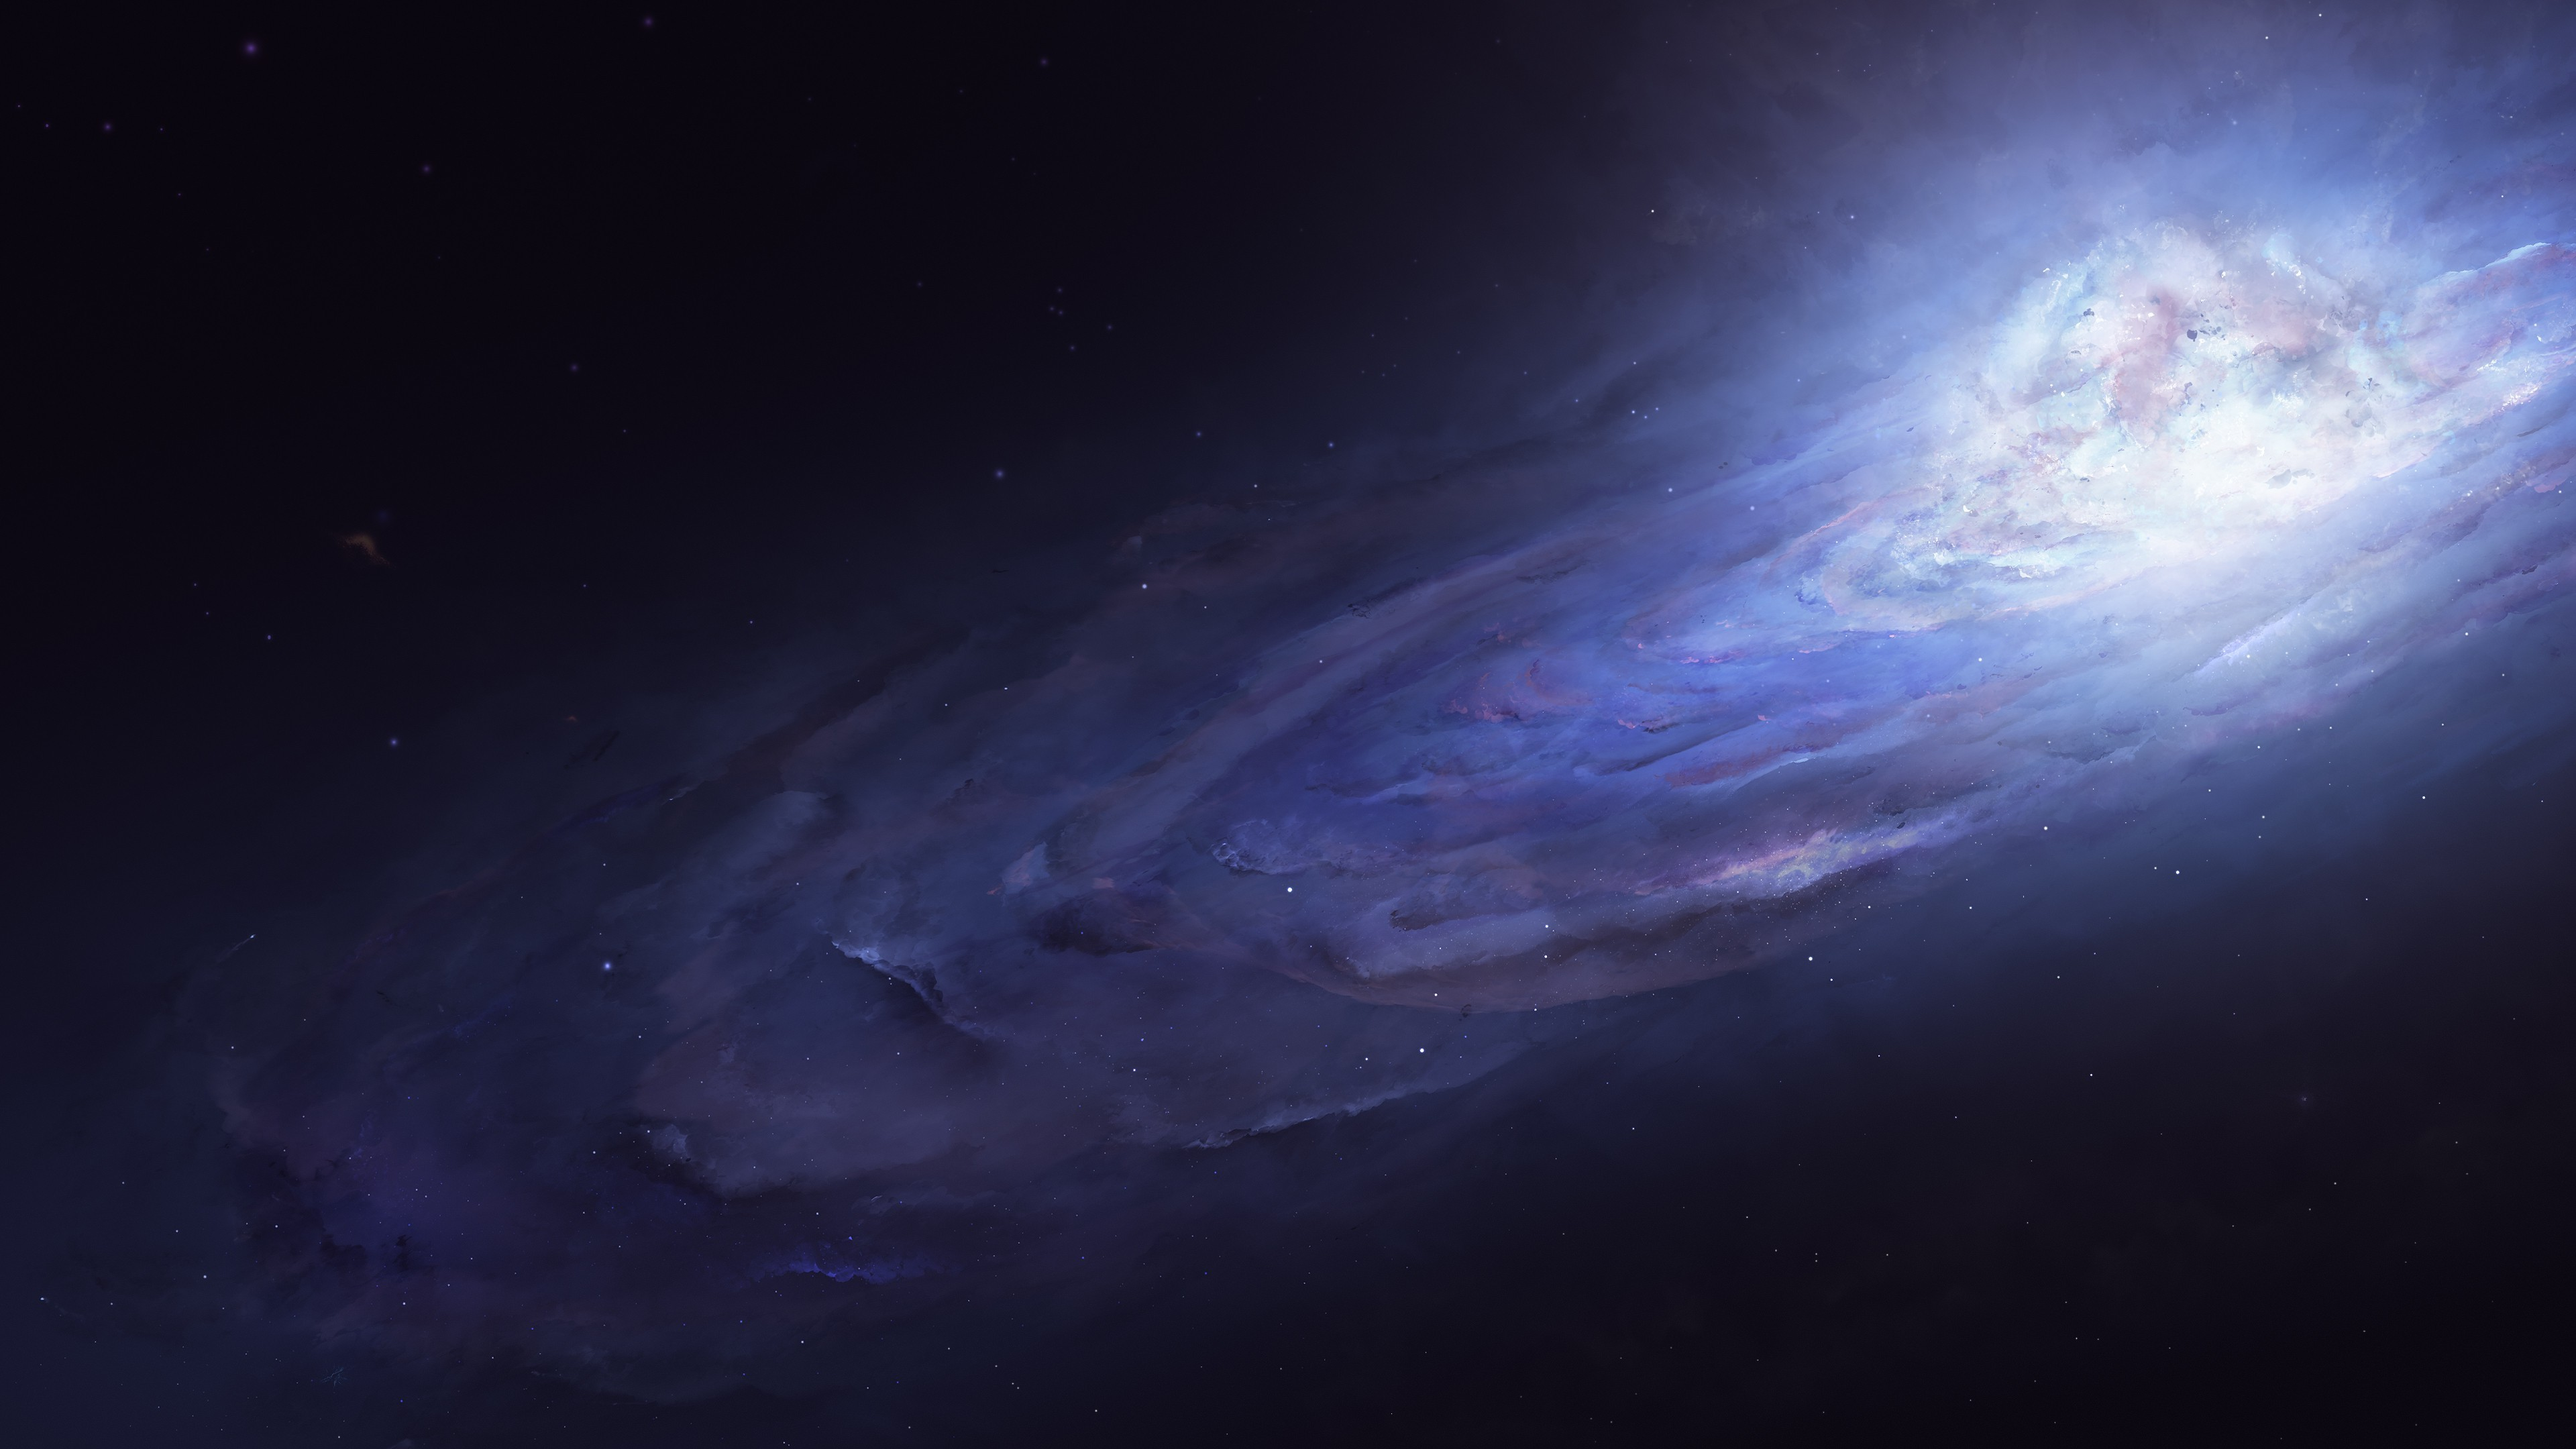
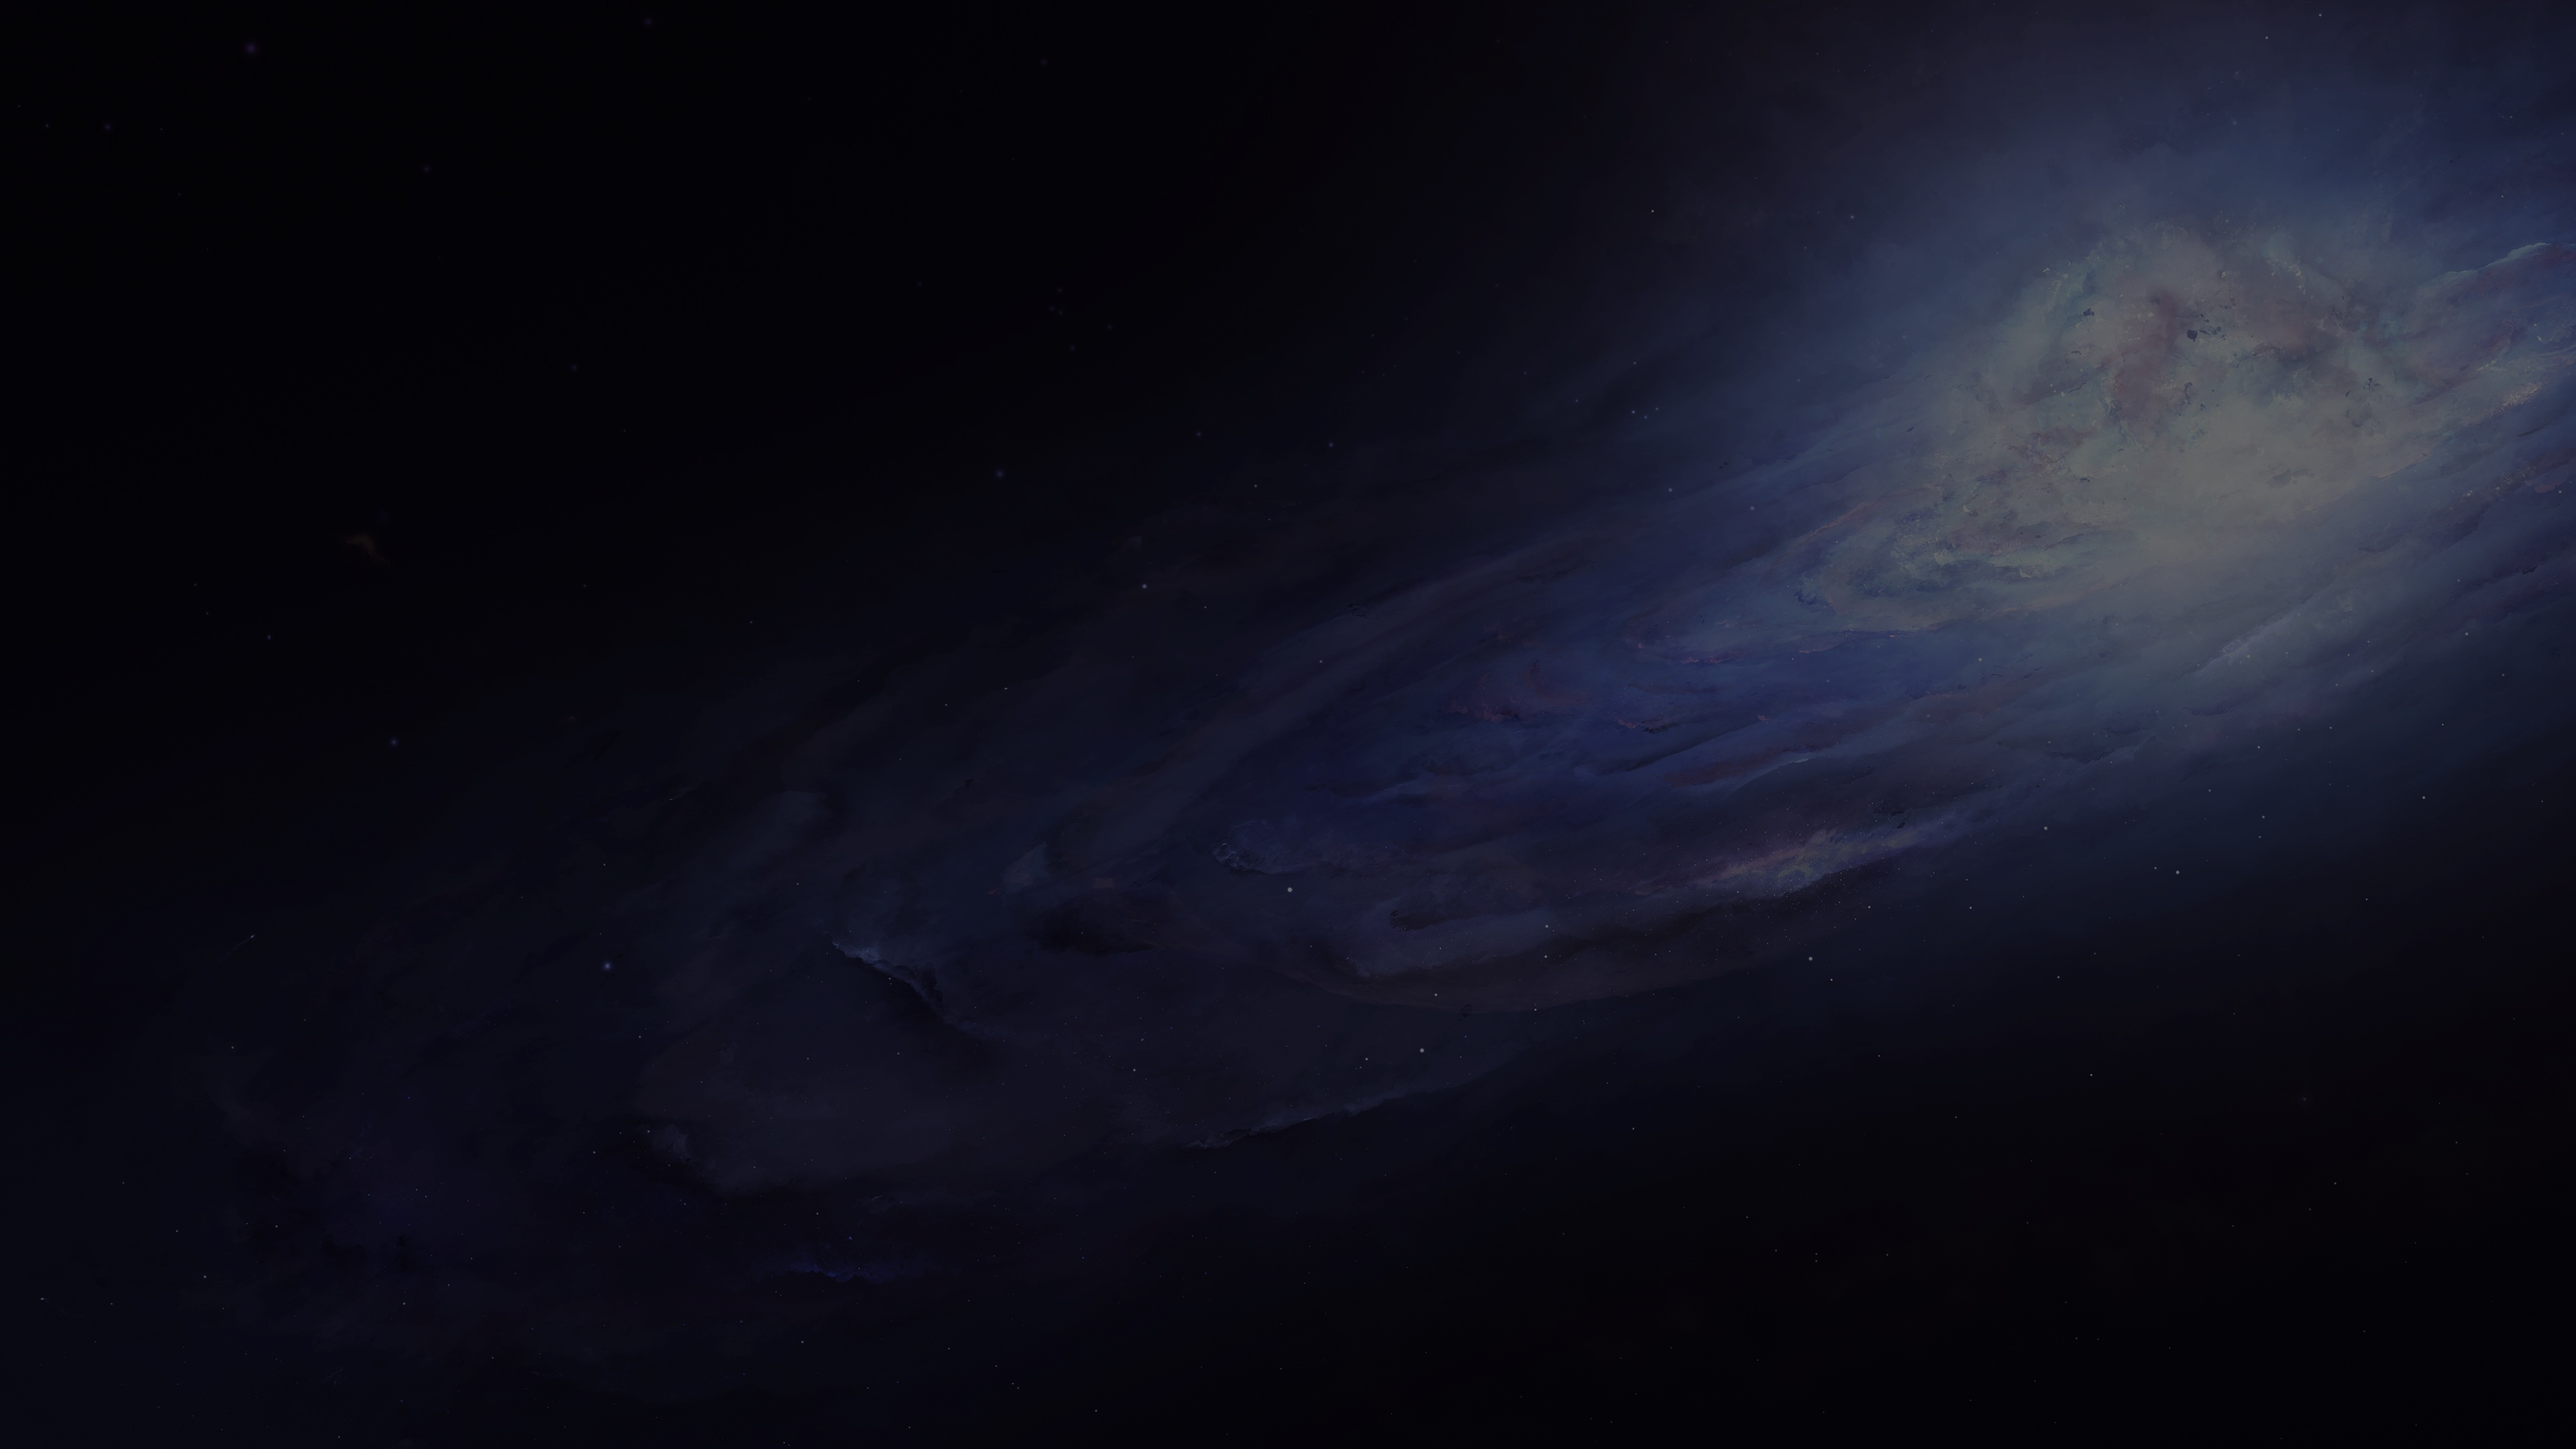
Added contact list and corresponding links. Cleaned up some spacing and other issues

diff --git a/index.html b/index.html
@@ -11,7 +11,7 @@
 
 
 <body>
-    <div id="background">
+    <div id="background"></div>
         <header>
             <h1>
                 Ryan Lee
@@ -67,7 +67,7 @@
                             I hope to be able to merge both experiences together and be able to make something out of it.
                         </span>
                     </div> <!-- close section heading -->
-                    <div class="image-post">
+                    <div class="left-image-post">
                         <div class="row">
                             <div class="col-md-6">
                                 <div class="left-image">
@@ -85,24 +85,23 @@
                         </div><!-- close row -->
                     </div><!-- close image-post -->
 
-                    <div class="image-post">
+                    <div class="right-image-post">
                         <div class="row">
                             <div class="col-md-6">
-                                <div class="left-image">
-                                    <img src="./assets/images/headshot.jpg" alt="My face"/>
-                                </div><!-- close left-image  -->
-                            </div><!-- close close col-md-6 -->
-                            <div class="col-md-6">
-                                <div class="right-text">
-                                    <h4> Where I'm From </h4>
+                                <div class="left-text">
+                                    <h4> Interests </h4>
                                     <p>
-                                        I was born in Los Angeles, however, due to school and various other circumstances, moved to San Diego and am currently living in San Diego.
+                                        Lorem ipsum dolor sit amet, consectetur adipiscing elit, sed do eiusmod tempor incididunt ut labore et dolore magna aliqua. Tincidunt nunc pulvinar sapien et ligula ullamcorper malesuada proin. Mauris rhoncus aenean vel elit scelerisque mauris pellentesque.
                                     </p>
                                 </div><!-- close right text -->
                             </div><!-- close col-md-6 -->
+                            <div class="col-md-6">
+                                <div class="right-image">
+                                    <img src="./assets/images/5 - TAVhU6f.jpg">
+                                </div><!-- close left-image  -->
+                            </div><!-- close close col-md-6 -->
                         </div><!-- close row -->
                     </div><!-- close image-post -->
-
                 </div><!-- close container -->
             </section>
 
@@ -164,9 +163,39 @@
                             Come find more about me elsewhere!
                         </span>
                     </div><!-- close section-heading -->
+                    <div class="row2">
+                        <div class="col-md-6">
+                            <div class="contactlist">
+                                <h4> Phone Number </h4>
+                                <p>
+                                    213 - 392 - 2227
+                                </p>
+                            </div>
+                        </div> <!-- close col-md-6 -->
+                        <a href="mailto:ryanlee059@gmail.com">
+                            <div class="col-md-6">
+                                <div class="contactlist">
+                                    <h4> Email </h4>
+                                </div>
+                            </div> <!-- close col-md-6 -->
+                        </a>
+                        <a href="https://github.com/Damaximum">
+                            <div class="col-md-6">
+                                <div class="contactlist">
+                                    <h4> GitHub </h4>
+                                </div>
+                            </div> <!-- close col-md-6 -->
+                        </a>
+                        <a href="https://www.linkedin.com/in/ryan-lee-1a8715207/">
+                            <div class="col-md-6">
+                                <div class="contactlist">
+                                    <h4> LinkedIn </h4>
+                                </div>
+                            </div> <!-- close col-md-6 -->
+                        </a>
+                    </div> <!-- close row -->
                 </div><!-- close container -->
             </section><!-- close contact -->
-            </div>
         </main>
 
         <footer>

diff --git a/assets/css/style.css b/assets/css/style.css
@@ -2,29 +2,6 @@
 
 }
 
-/* 
-body, html {
-    height: 100%;
-}
-
-.background {
-    height: 800px;
-    width: 100%;
-    margin-bottom: 25px;
-    background-image: url("../images/wallpaper-space.jpg");
-    background-size: cover;
-    background-position: center;
-    background-repeat: no-repeat;
-    height: 50%;
-
-}
-
-ul {
-    list-style-type: none;
-    margin: 0;
-    padding: 0;
-  }
-
   /* Nav bar settings. Creates a fixed, full height nav bar on the right. */
 
 header {
@@ -81,6 +58,11 @@ nav a:hover {
     background: url(../images/wallpaper-space.jpg) no-repeat center center fixed;
     background-size: cover;
     width: 100%;
+    height: 100%;
+    z-index: 0;
+    position: fixed;
+    top: 0;
+    left: 0;
 }
 
 
@@ -107,7 +89,7 @@ h4 {
 }
 
 img {
-    width: 20%;
+    width: 30%;
     overflow: hidden;
 }
 
@@ -167,21 +149,28 @@ html {
 }
 /* Image Post */
 
-.image-post {
+.right-image-post {
     margin-top: 60px;
     padding-top: 60px;
     border-top: 2px solid rgba(250, 250, 250, 0.1);
 }
 
-.left-image img {
+.right-image img {
+    width: 100%;
+}
+
+.left-image img,
+.right-image img {
     border-radius: 5px;
 }
 
-.image-post h4 {
+.right-image-post h4,
+.left-image-post h4 {
     margin-top: 30px;
 }
 
-.image-post p {
+.right-image-post p,
+.left-image-post p {
     margin-top: 20px;
 }
 
@@ -250,6 +239,41 @@ html {
 .items-done .fourth-work {
     background-image: url(../images/work4.jpg);
 }
+    /* contact */
+
+
+.contact .col-md-6 {
+    padding-left: 5px;
+    padding-right: 5px;
+}
+
+.contactlist {
+    margin-bottom: 10px;
+    padding: 50px;
+    background-color: rgba(250, 250, 250, 0.1);
+    transition: all 0.5s;
+}
+
+.contactlist h4 {
+    transition: all 0.5s;
+}
+
+.contactlist p {
+    transition: all 0.5s;
+}
+
+.contactlist:hover {
+    background-color: rgba(250, 250, 250, 1);
+}
+
+.contactlist:hover h4 {
+    color: #1e1e1e;
+}
+
+.contactlist:hover p {
+    color: #4a4a4a;
+}
+
 
 
 @media screen and (max-width: 1280px) {
